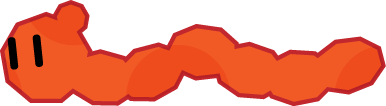
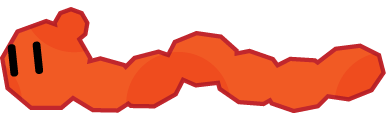
Adding worm resize

diff --git a/dpt/engine/scenes.py b/dpt/engine/scenes.py
@@ -169,6 +169,11 @@ class Scenes:
 
         Thread(target=music).start()
 
+        from dpt.engine.effectsManagement import EffectsManagement
+
+        Game.temp["reversed"] = EffectsManagement.upsidedown
+        EffectsManagement.upsidedown = False
+
         # Ajout du GUI
         from dpt.engine.gui.menu.button import Button
         from dpt.engine.gui.menu.simpleSprite import SimpleSprite
@@ -631,6 +636,7 @@ class Scenes:
         root.destroy()
 
         Game.temp["next_level"] = Game.selected_level
+        Game.temp["coins"] = 0
 
         # Loops
         from dpt.engine.mainLoop import start_level_loop
@@ -654,6 +660,10 @@ class Scenes:
             return
 
         cls.logger.info("Displaying END_LEVEL")
+
+        from dpt.engine.effectsManagement import EffectsManagement
+
+        EffectsManagement.upsidedown = False
 
         # Score
         Game.temp["score"] = Game.temp["coins"] * 50 + Timer.time * 10
@@ -769,6 +779,10 @@ class Scenes:
             pygame.mixer.music.pause()
 
         Thread(target=music).start()
+
+        from dpt.engine.effectsManagement import EffectsManagement
+
+        EffectsManagement.upsidedown = False
 
         cls.logger.info("Displaying GAME_OVER")
 

diff --git a/dpt/game.py b/dpt/game.py
@@ -62,7 +62,6 @@ class Game(object):
     cursor1 = None  # Image 1 du curseur
     cursor2 = None  # Image 2 du curseur
     life = 1  # Variable indiquant la vie du joueur vis à vis de son affichage
-    upsidedown = False  # Retourner l'écran
     selected_level = 0  # Niveau selectionné
     levels_list = None  # Liste des niveaux
     stars = 0  # Nombre d'étoiles débloquées
@@ -293,6 +292,8 @@ class Game(object):
             from dpt.engine.scenes import Scenes
             Scenes.main_menu()
 
+            from dpt.engine.effectsManagement import EffectsManagement
+
             # MainLoop
             while cls.run:
                 Game.events = pygame.event.get()
@@ -308,7 +309,7 @@ class Game(object):
 
                 cls.loop()
 
-                if cls.upsidedown:
+                if EffectsManagement.upsidedown:
                     sc = pygame.transform.flip(Game.surface, False, True)
                     Game.surface.blit(sc, (0, 0))
 

diff --git a/dpt/engine/effectsManagement.py b/dpt/engine/effectsManagement.py
@@ -65,6 +65,8 @@ class EffectsManagement:
     image_star = None
     image_reverse = None
 
+    upsidedown = False
+
     @classmethod
     def create_effects_image(cls):
         """Crée les images des effets possibles"""
@@ -83,9 +85,9 @@ class EffectsManagement:
         """Décide de lancer des nouveaux votes, supprime ou active les effets et gére le fonctionnement de certains effets"""
         cls.display_update()
         if cls.dico_current_effects["reverse"]:
-            Game.upsidedown = True
+            EffectsManagement.upsidedown = True
         else:
-            Game.upsidedown = False
+            EffectsManagement.upsidedown = False
         for event in Game.events:
             if event.type == Game.VOTE_RESULT_AVAILABLE_EVENT:
                 for effects in cls.temp_list:

diff --git a/dpt/engine/mainLoop.py b/dpt/engine/mainLoop.py
@@ -184,6 +184,8 @@ def pause_loop():
                 Game.loop = level_loop
                 kill_menu()
 
+                EffectsManagement.upsidedown = Game.temp["reversed"]
+
                 def music():
                     pygame.mixer.unpause()
                     pygame.mixer.music.unpause()
